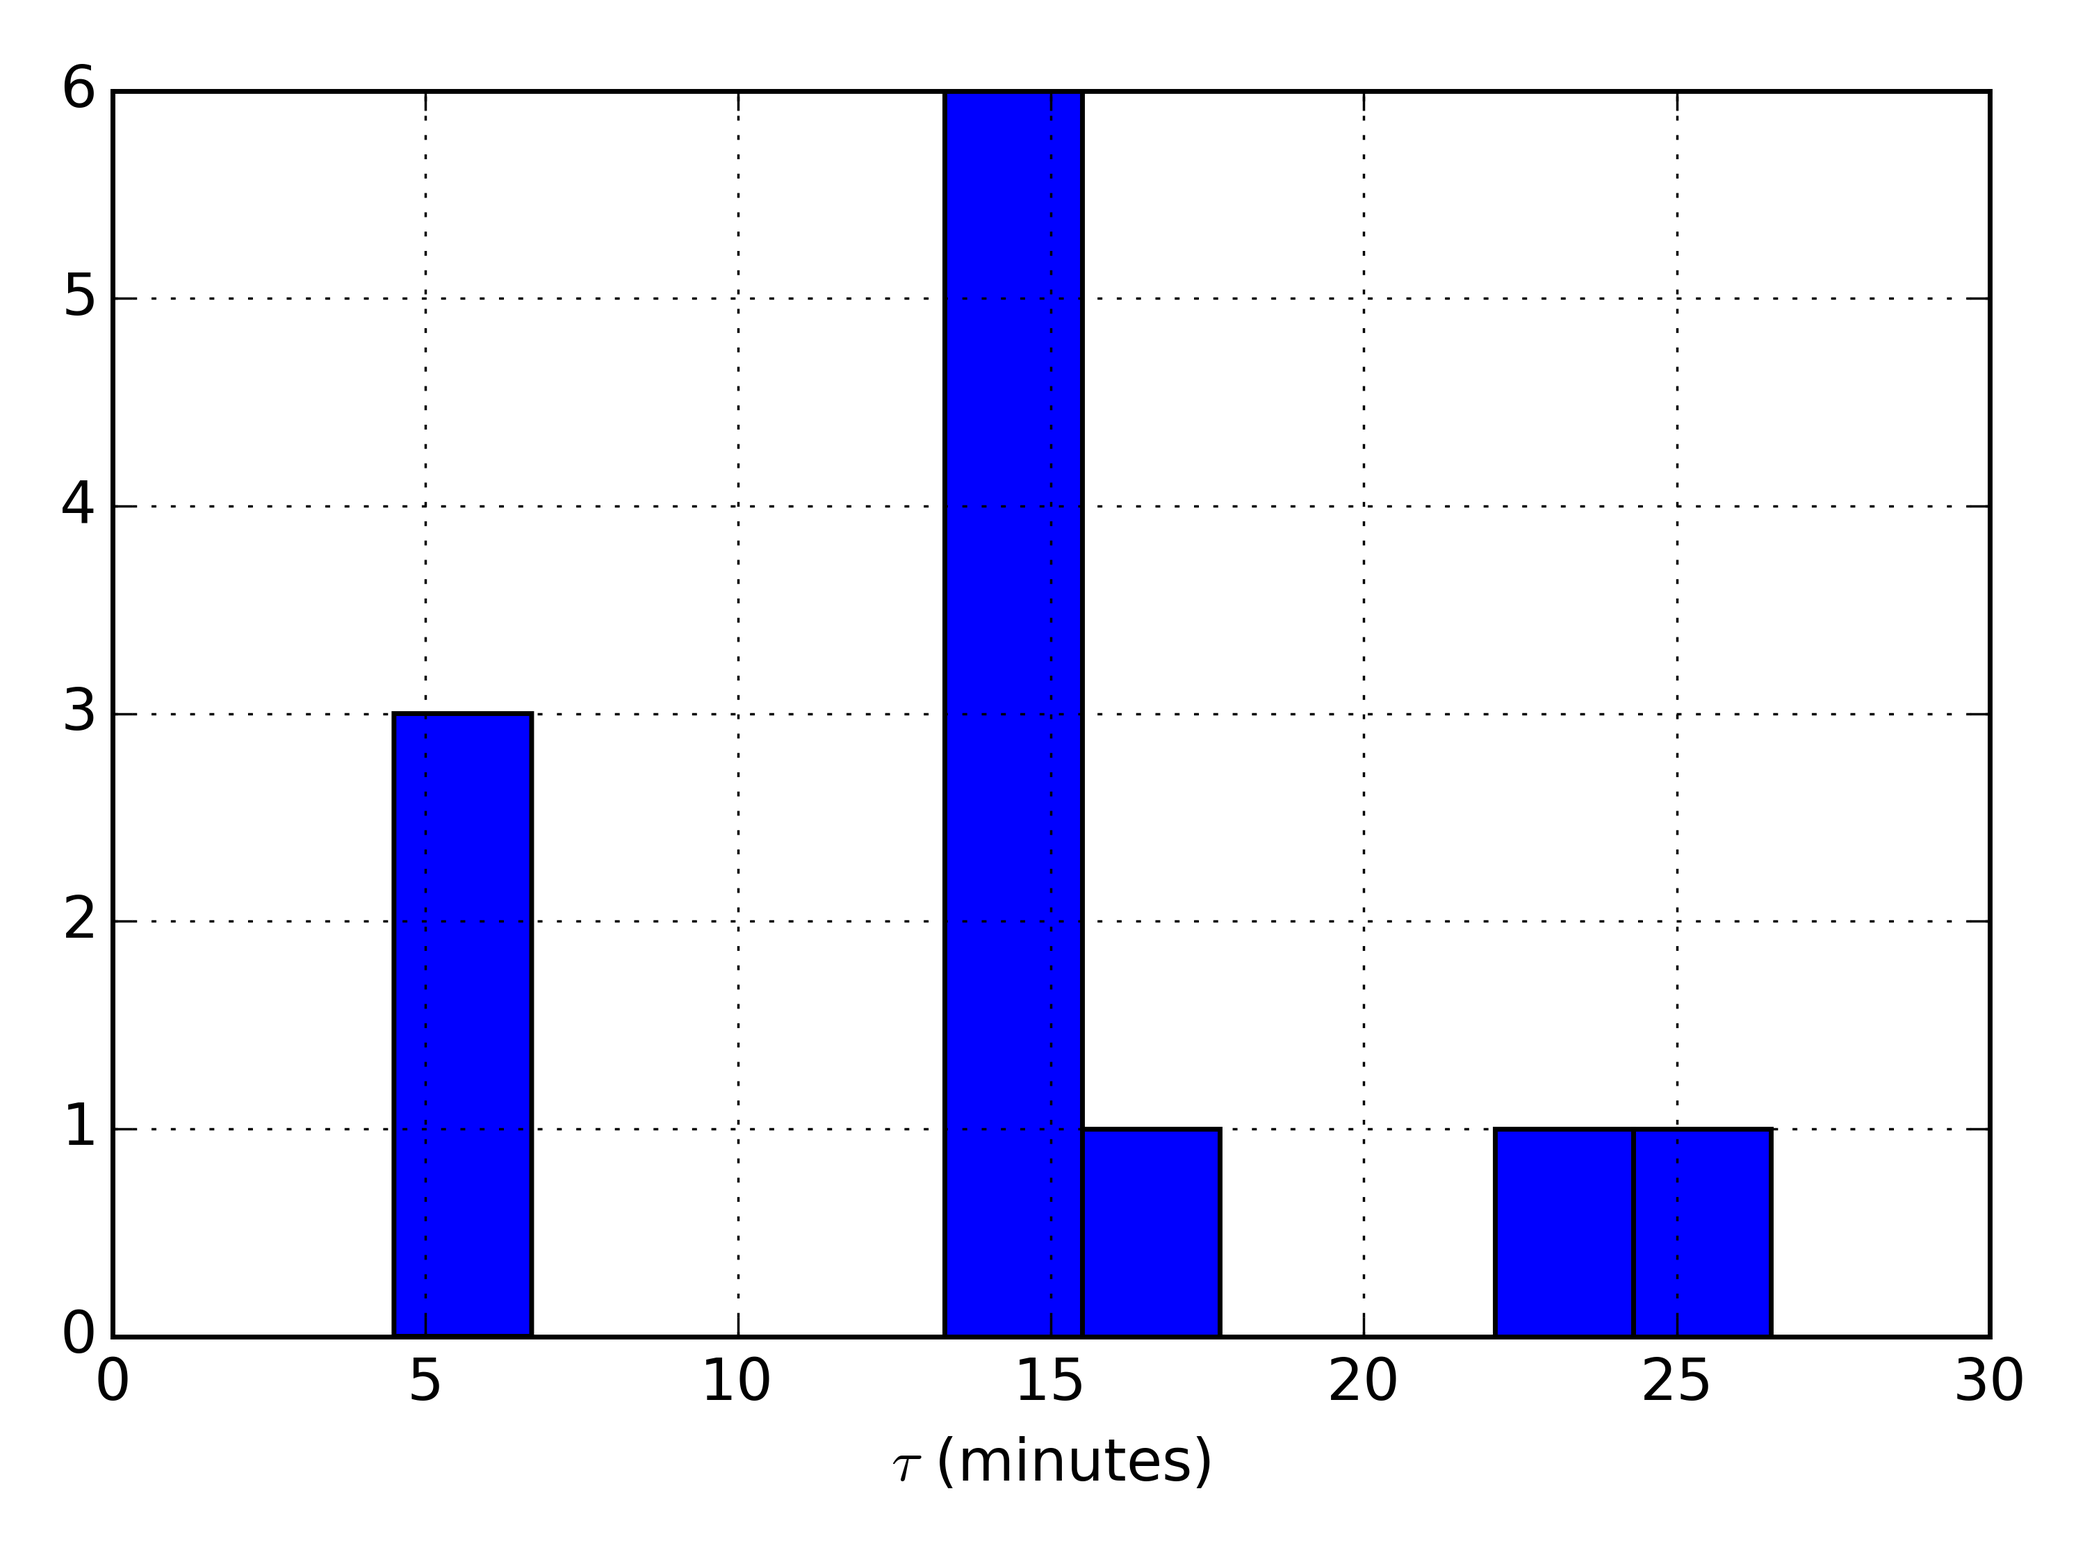
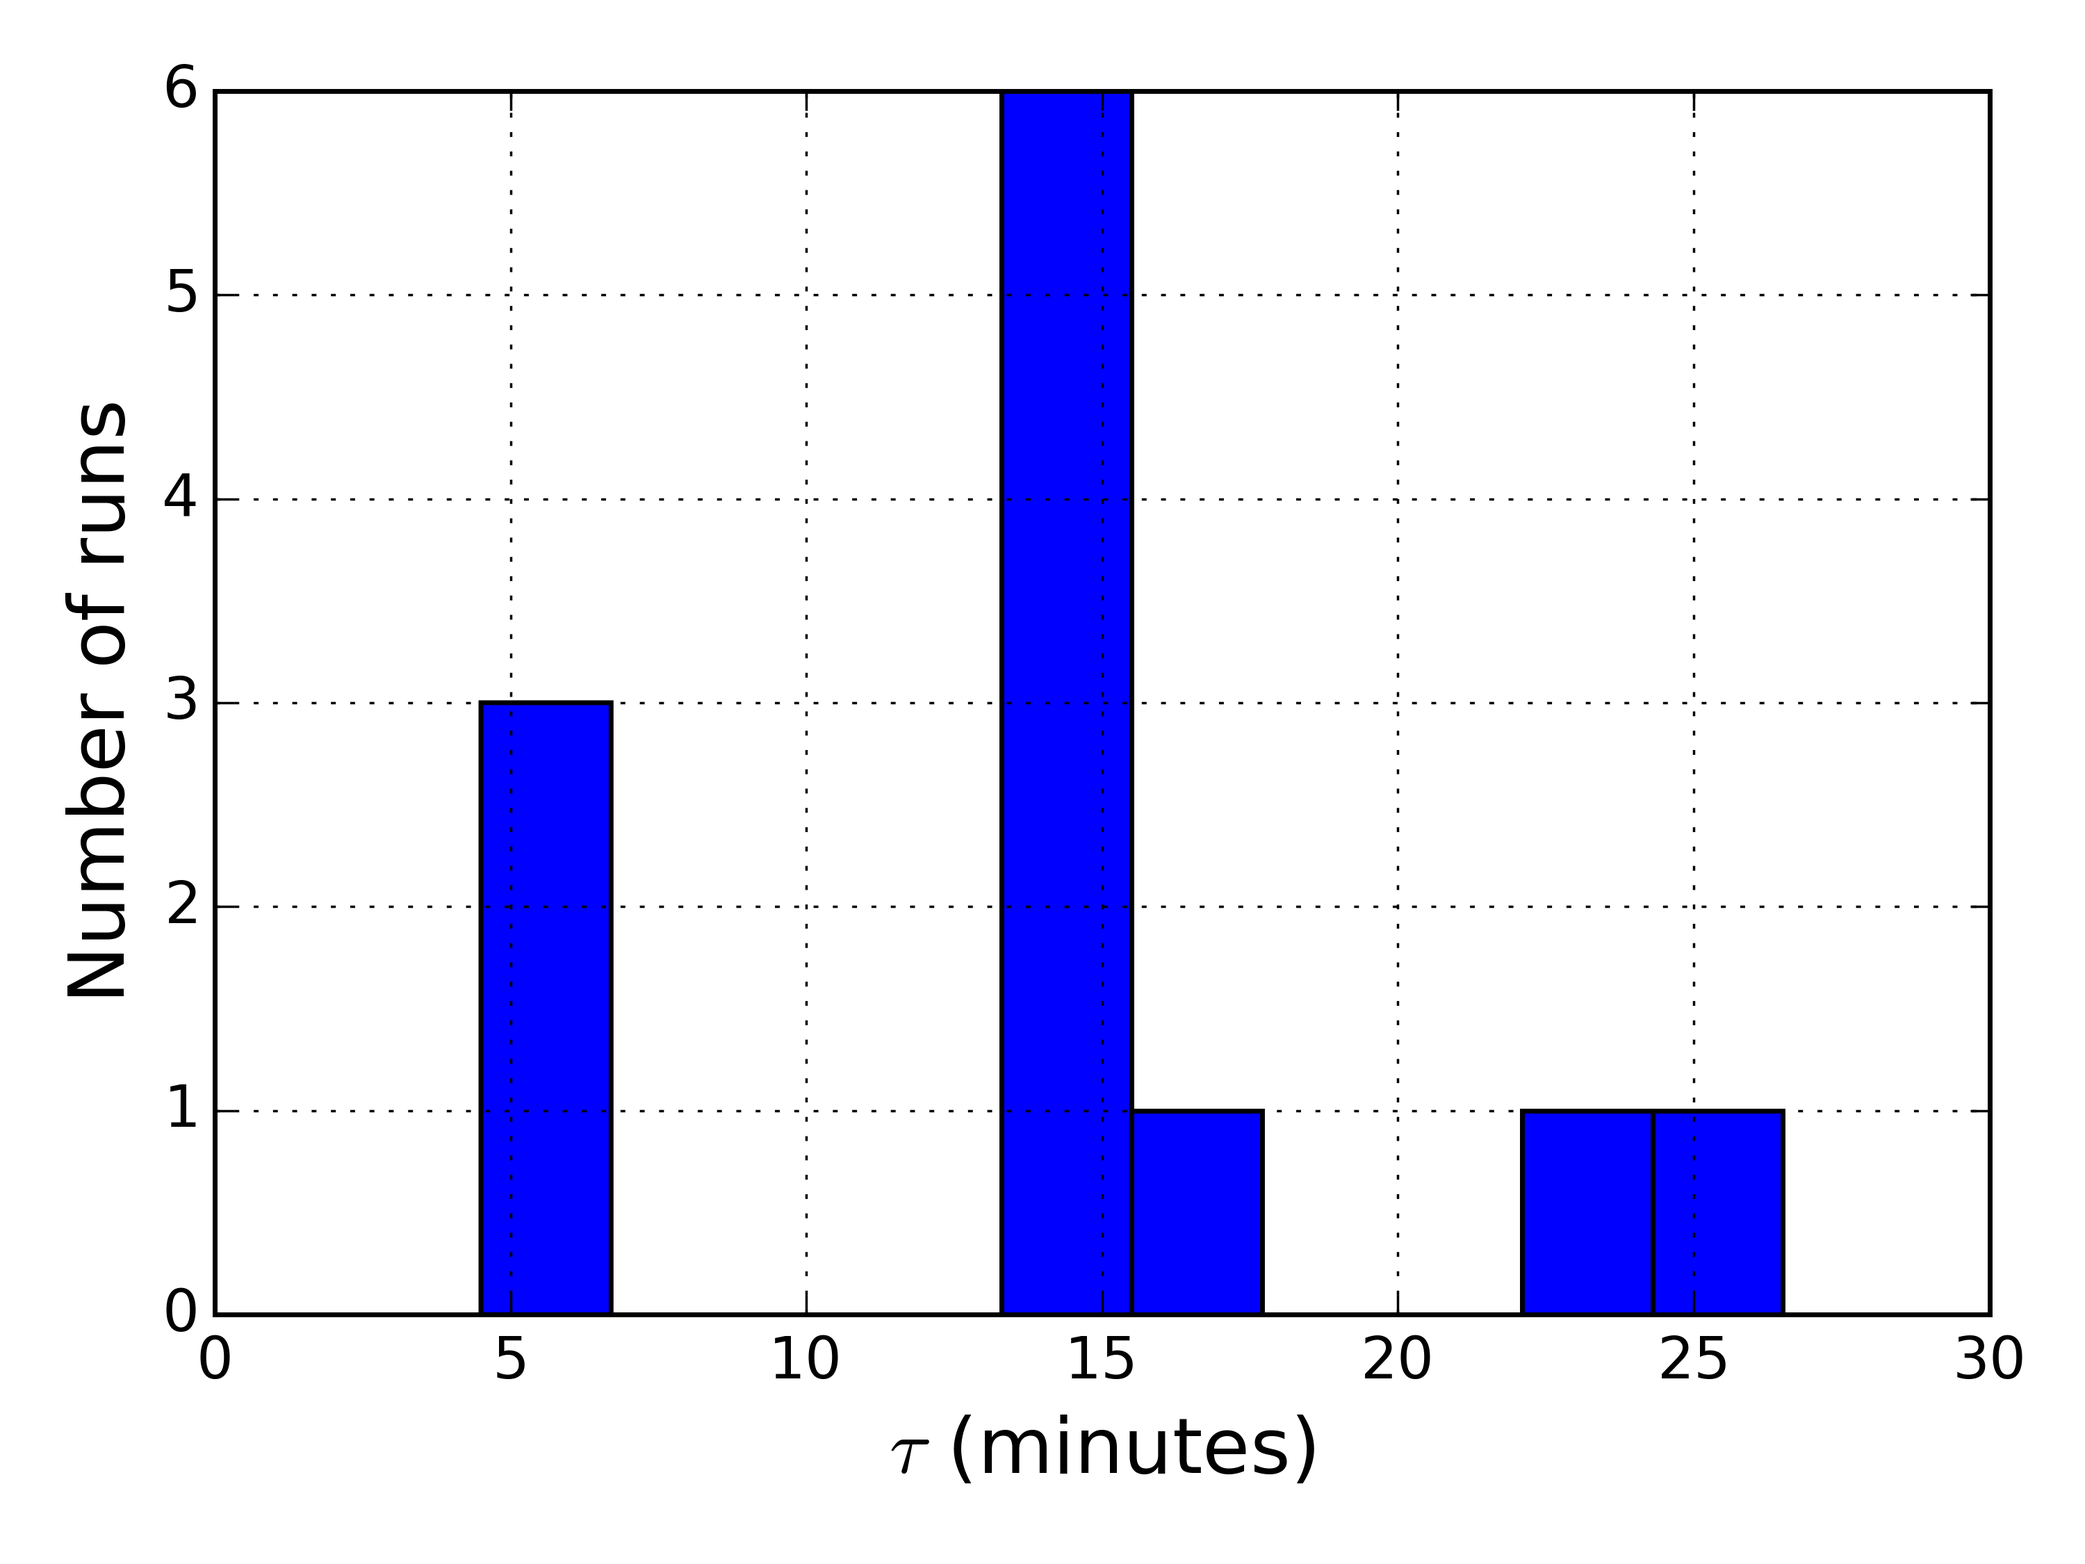
Bo fix XXX; + conclusion section

diff --git a/conclusions.tex b/conclusions.tex
@@ -1,52 +1,53 @@
 
 %  \section{Discussion and Conclusions} 
  
-For now, a collection place for stuff from other seeing papers (commented out),
-and some text to move later to Sections 3 and 4. 
+Using SDSS Stripe 82 data, we have seen a direct evidence that the
+wavelength dependence of the atmospheric seeing agrees better with the
+\vk~model than the Kolmogorov turbulence theory.
+Most of the long-term seeing statistics are taken at the visible
+wavelength. The knowledge on the wavelength-dependence of the seeing
+is useful for extrapolating the seeing statistics to other
+wavelength, for example, the near-infrared, where a lot of the
+adaptive optics programs operate.
 
 
-1) \cite{VMT1998} 
+We have also measured 
+the characteristic angular and temporal scales on which the seeing
+decorrelates.
+The numerical results may only apply to the SDSS site, but can be used
+as references when considering spatial and temporal variations of
+seeing at other observatories.
+Comparisons with simulations of the LSST and PSF measurements at CFHT
+show good general agreement, taken into account that the results are
+for different sites and different telescope optics.
+The results can be useful for observatories in scheduling
+observations to make best use of good seeing conditions.
 
-For seeing prediction, it is tempting to find statistical laws which describe its temporal behaviour.
-To our knowledge only three authors (Racine, 1996; Munoz-Tunon et al., 1997; Sarazin, 1997) 
-have worked on this problem. 
+We thank John Peterson for running the PhoSim simulations and
+providing us with both the PhoSim and CFHT curves in
+Fig.~\ref{fig:spatial}.
 
-- fig. 2: average autocorrelation function of seeing over 9 months:  A*exp(-t/tau) 
+%check lognormal?
+% - seeing distribution is  log–normal, due to the fact that seeing arises from the addition of uncorrelated random processes 
 
-- seeing distribution is  log–normal, due to the fact that seeing arises from the addition of uncorrelated random processes
+%check autocorrelation?
+% - fig. 2: average autocorrelation function of seeing over 9 months:  A*exp(-t/tau) 
+% see Eq. (3) in VMT 1998 for definition.
+% This could be calculated using correlate_temporal_bin.py (autocor
+% option), or make a copy of correlate_temporal_sf.py, and calculate
+% in a similar way. But, in fig 2 of VMT 1998, why autocor(dt=0) not
+% at 1?
 
-
-with $\tau$=17 min and $\gamma \sim 0.7$. for observations at Mauna Kea \cite{Racine1996}
-
-Seeing varies greatly with time and seems to decorrelate after 1 to 2 hr. 
-
-The seeing auto-correlation function
-\begin{equation}
-      C(\Delta t) = < \theta(t) \theta(t+\Delta t)>,
-\end{equation} 
-can be modeled as
-\begin{equation}
-      C(\Delta t) = A \, \exp(-\Delta t/\tau),
-\end{equation} 
-with $\tau \sim 1$ hour. 
+%The seeing auto-correlation function
+%\begin{equation}
+%      C(\Delta t) = < \theta(t) \theta(t+\Delta t)>,
+%\end{equation} 
+%can be modeled as
+%\begin{equation}
+%      C(\Delta t) = A \, \exp(-\Delta t/\tau),
+%\end{equation} 
+%with $\tau \sim 1$ hour. 
  
-Triple correlation:
-\begin{equation}
-      C(\Delta t_1, \Delta t_2) = < \theta(t) \theta(t+\Delta t_1)\theta(t+\Delta t_2) >
-\end{equation} 
-
-2) 
-
-The vertical distribution of the optical turbulence strength (energy profile), described by the altitude 
-dependence of the refractive-index structure constant $C^2_n$, is hard to measure. When $C^2_n$ 
-is available, the seeing $\theta$ is obtained by integrating $C^2_n$ over altitude $h$ as 
-\begin{equation}
-   \theta =  0.98 {\lambda \over r_0} = 5.25 \, \lambda^{-1/5} \, \left[ \int_0^\infty C_n^2(h) dh \right]^{3/5},
-\end{equation}
-where $r_0$ is the Fried's parameter \cite{Roddier1981}. 
-
-
-
 
 
 
@@ -61,12 +62,7 @@ where $r_0$ is the Fried's parameter \cite{Roddier1981}.
 
 % Coulman (1985, ARAA 23, 19) for theory of turbulence and seeing in astronomy
 
-\begin{equation} 
-FWHM = 0.98 {\lambda \over r_0} 
-\end{equation} 
-where $\lambda$ is the wavelength and $r_0$ is the Fried's
-parameter. It can be shown that the variation of $r_0$ with wavelength
-predicted by the Kolmogorov's turbulence implies $FWHM \propto \lambda^{-0.2}$. 	
+
 % cite: Vernin, J.; Munoz-Tunon, C. 1992, Astronomy and Astrophysics, vol. 257, no. 2, p. 811-816. 
 
 % Check for seeing forecastas and "flexible scheduling" !! 

diff --git a/analysis/source/correlate_temporal_sf.py b/analysis/source/correlate_temporal_sf.py
@@ -17,12 +17,16 @@ from astroML.fourier import PSD_continuous
 def fdt(dt, A, tau, gamma):
     # print('A = %e, f0 = %f'% (A, f0))
     return A*(1-(np.exp(-dt/tau))**gamma )
+    #return A*(1-(np.exp(-dt/tau))*gamma )
+    # return A*(1-np.exp((-dt/tau)**gamma) )  # (-dt/tau)**gamma -> nan
 
 def fdtChi2(dt, Atg, y, yerr):
     A = Atg[0]
     tau = Atg[1]
     gamma = Atg[2]
     yp = A*(1-(np.exp(-dt/tau))**gamma)
+    #yp = A*(1-(np.exp(-dt/tau))*gamma)
+    #yp = A*(1-np.exp((-dt/tau)**gamma))
     chi2 = np.sum(((yp - y)/yerr)**2)
     # print('A = %e, f0 = %f, chi2 = %f'% (A, f0, chi2))
     return chi2
@@ -155,37 +159,45 @@ def main():
                     mySF = txtdata[1, :]
                     myN = txtdata[2, :]
                     mySFstd = txtdata[3, :]
-                    
+
+                # mySFstd = mySFstd/100 #playing around, checking why pcov is large
+                # curve_fit gives the error
                 popt, pcov = optimize.curve_fit(fdt, mySep, mySF, p0=[0.1, 30, 0.8],
                                                         bounds = ([0, 5, 0], [0.3, 300, 5]),
                                                     sigma = mySFstd)
-                print('%6.1f\t %6.1f\n'%(popt[1], np.sqrt(pcov[1,1])))
-                popt = optimize.fmin(
-                    lambda Atg: fdtChi2(mySep, Atg,mySF, mySFstd), [0.1, 30, 0.8], disp=0)
-                print('fmin: %6.1f\n'%(popt[1]))
                 A = popt[0]
                 tau = popt[1]
                 gamma = popt[2]
                 Aerr = np.sqrt(pcov[0, 0])
                 tauerr = np.sqrt(pcov[1, 1])
                 gammaerr = np.sqrt(pcov[2, 2])
-
+                print('curve_fit: tau = %6.1f\t %6.1f'%(tau, tauerr))
+                print('curve_fit: gamma = %6.3f\t %6.3f'%(gamma, gammaerr))
+                # fmin does not give the error
+                popt = optimize.fmin(
+                    lambda Atg: fdtChi2(mySep, Atg,mySF, mySFstd), [0.1, 30, 0.8], disp=0)
+                A = popt[0]
+                tau = popt[1]
+                gamma = popt[2]
+                print('fmin: tau = %6.1f'%tau)
+                print('fmin: gamma = %6.3f'%gamma)
+                
                 if args.writefitp:
                     fid = open(fitpname, 'w')     
                     fid.write('%5.3f\t %5.3f\n' % (A, Aerr))
                     fid.write('%5.0f\t %5.0f\n' % (tau, tauerr))
                     fid.write('%5.2f\t %5.2f\n' % (gamma, gammaerr))
                     
-                #plt.figure(figsize=(6,4.5))
-                #plt.errorbar(mySep, mySF, mySFstd, fmt = 'ok')
-                #myX = np.linspace(0, mySep[0]+mySep[-1], 100)
-                #myY = fdt(myX, A, tau, gamma)
-                #chi2 = fdtChi2(mySep, popt, mySF, mySFstd)
-                #plt.plot(myX, myY, 'r-')
-                #
-                #plt.title('run%d, %s, %s, camcol=%s' %
-                #            (run, fwhmStr, sdss.band[band], camcol))
-                #plt.grid()
+                plt.figure(figsize=(6,4.5))
+                plt.errorbar(mySep, mySF, mySFstd, fmt = 'ok')
+                myX = np.linspace(0, mySep[0]+mySep[-1], 100)
+                myY = fdt(myX, A, tau, gamma)
+                chi2 = fdtChi2(mySep, popt, mySF, mySFstd)
+                plt.plot(myX, myY, 'r-')
+                
+                plt.title('run%d, %s, %s, camcol=%s' %
+                            (run, fwhmStr, sdss.band[band], camcol))
+                plt.grid()
                 # plt.show()
                 
             if (args.startfield == 0 and args.endfield == 99999):

diff --git a/FWHManalysis.tex b/FWHManalysis.tex
@@ -131,9 +131,9 @@ by the authors of~\cite{heymans2012}.
 The 3 curves in Fig.~\ref{fig:spatial} appear to be quantitatively
 consistent with each other, even though they are for telescopes at
 different sites and with different optics.
-
-XXX can we conclude anything from this section that is worth mentioning in the abstract? 
-
+The structure function is seen to start saturating at a separation of
+$\sim 0.5 - 1.0$ degree, where the PSF size typically differ on the
+scale of $\sim 0.05$ arcsec.
 
 \subsection{Temporal auto-correlation function}
 
@@ -152,10 +152,17 @@ Combining fit results for all camera columns and optical bands for run 4874
 gives $\tau = 15.1 \pm 1.4$ minutes.
 This is consistent with ~\cite{Racine1996}, where a timescale of 
 $\tau = 17 \pm 1$ minutes was found.
-Making the same fits for all the Stripe 82 runs with number of fields
+Making the same fits for the 12 longest runs in Stripe 82, where the
+number of fields are
 larger than 600, we obtained the $\tau$ distribution plotted in Fig.~\ref{fig:hist}.
-XXX How many runs? it looks like only 12 from fig. 6. Is 600 too conservative? 
-what if you relax to, say, 300? 
+%XXX How many runs? it looks like only 12 from fig. 6. Is 600 too conservative? 
+%what if you relax to, say, 300? 
+%Bo: when we change 600 to 300, we get FIGURES/hist_300.png 
+% the shorter runs tend to give smaller timescale. 
+% Looking at Fig.5, this is because the shorter runs have very few
+% point toward the lower frequency end, therefore are unable to
+% constrain the location of the "knee" during the fit. They tend to
+% push the "knee" to the right.
 
 Following~\cite{Racine1996}, we also define the structure-function-like quantity
 \begin{equation}
@@ -166,10 +173,11 @@ We then fit the mean value of $f(\Delta t)$ to
 \begin{equation}
     < f(\Delta t) > =  f(\Delta t) ^\infty \, \left[ 1 - \exp(-\Delta t/\tau)^\gamma \right],
 \end{equation} 
-The timescale $\tau$ is found to be mostly within the range of 15 to 25 minutes.
-XXX where does $\gamma$ come from? 
-
-XXX we need to add a sentence about $\tau \sim 15$ mins to the abstract. 
+with $\tau$ and $\gamma$ as free parameters.
+The timescale $\tau$ is found to be mostly within the range of 15 to
+25 minutes, and $\gamma$ between 1.0 and 1.5.
+%note: fits do not look as good as Fig 4 in Racine 1997.
+% see output/correlate_temporal/run4874_fwhm_sf_r.png
 
 \begin{figure}
 \centering
@@ -184,7 +192,9 @@ gives $\tau = 15.1 \pm 1.4$ minutes.
 \begin{figure}
 \centering
 \includegraphics[width=0.5\textwidth]{FIGURES/hist.png}
-\caption{histograms XXX Need to expand (and Y label and larger X label) 
+\caption{Distribution of the damped random walk characteristic
+  timescale for a total of 12 runs in Stripe 82 with the number of
+  fields larger than 600.
 \label{fig:hist}}
 \end{figure}
 

diff --git a/PSFprofile.tex b/PSFprofile.tex
@@ -1,7 +1,7 @@
 
 %  \section{The PSF profile analysis}
 
-Since the complex 6-parameter PSF fit given by eq.~\ref{eq:SDSSPSF} was adopted by 
+Since the complex 6-parameter PSF fit given by Eq.~(\ref{eq:SDSSPSF}) was adopted by 
 the SDSS processing pipeline, significant progress has been made in validating the 
 \vk~model of the atmosphere and measuring the associated outer
 scale (see, for example, \citealt{Tokovinin2002}, \citealt{Boccas2004}, and \citealt{MartinezMessenger}).
@@ -36,7 +36,7 @@ so light goes all the way through the chip and is reflected off the solder, and 
 back up through the Si. This effect is not visible in the $z$-band because in this case
 thick front-side chips are used (in all other bands, thin back-side chips are used). 
 
-To improve the fit quality are large radii, in the second fitting step we introduce an
+To improve the fit quality at large radii, in the second fitting step we introduce an
 empirical instrumental PSF, so that the observed PSF can be expressed as
 a convolution of the atmosphere, represented by the \vk, and
 the instrumental PSF,
@@ -48,7 +48,13 @@ where vonK is the \vk~shape, whose only parameter is its FWHM, and
         \textrm{PSF}_{\textrm{inst}} = \exp(-\frac{r^2}{2\sigma^2}) + 10^{\eta(ar^2+br+c)}.
 \label{eq:psfinst}
 \end{equation} 
-Because the shape of the instrument PSF tail should not vary with
+The standard deviation of the central Gaussian, $\sigma$, cannot be
+too wide because the \vk~term already well describes the core of the PSF.
+On the other hand, if $\sigma$ is close to zero, once the
+total intensity of the instrumental PSF is normalized to 1, too much
+widening power would be given to the instrumental PSF tail.
+We found $\sigma = 0.1$ arcsec a reasonable choice for all the fits.
+Because the shape of the instrumental PSF tail should not vary with
 time, the parameters $a$, $b$, and $c$ in Eq.~(\ref{eq:psfinst}) are
 fixed for each band-camera-column combination.
 Their values come from a one-time fit using the same PSF functions,
@@ -59,7 +65,6 @@ These fits are very slow but need to be done only once.
 Although this second fitting step involves a 2-dimensional convolution,
 there is only one free parameter in the fit: $\eta$, the normalization of the
 instrument PSF tail. Each two-step PSF fit can be done in a few seconds.
-XXX Bo, what about delta from eq.3, where does it come from? 
 
 
 \begin{figure}

diff --git a/sdsspsf.tex b/sdsspsf.tex
@@ -12,13 +12,15 @@
 
 \title{A Study of the Point Spread Function in SDSS Images}    %line break \\ is allowed in title
 
-\author{B. Xin$^1$, \v{Z}. Ivezi\'{c}$^2$, R.H. Lupton$^3$, P. Yoachim$^2$, R.L. Jones$^2$, C. Claver$^1$, G. Angeli$^1$}
+\author{B. Xin$^1$, \v{Z}. Ivezi\'{c}$^2$, R.H. Lupton$^3$, P. Yoachim$^2$, R.L. Jones$^2$, C. Claver$^1$, G. Angeli$^{1*}$}
 \and
 \author{Other Contributors}
 
 \affil{$^1$Large Synoptic Survey Telescope, Tucson, AZ 85719}
 \affil{$^2$Department of Astronomy, University of Washington, Seattle, WA 98195}
 \affil{$^3$Department of Astrophysical Sciences, Princeton University, Princeton, NJ 08544}
+\altaffiltext{*}{Current address: Giant Magellan Telescope
+  Organization, Pasadena, CA 91107}
 
 \begin{abstract}
 We use SDSS imaging data in $ugriz$ passbands to study the shape of
@@ -37,6 +39,9 @@ theory with the outer scale parameter in the range 10--30 m, than by the
 Kolmogorov's turbulence theory. We also measure the temporal and angular
 structure functions for FWHM and compare them to simulations and
 existing measurements.
+The angular structure function saturates around 0.5$-$1.0 degree. 
+The temporal behavior is found to be consistent with the damped random
+walk model with a characteristic timescale of $\sim$ 15 minutes.
 \end{abstract}
 
 \keywords{imaging point spread function --- SDSS}

diff --git a/analysis/source/hist.py b/analysis/source/hist.py
@@ -10,10 +10,11 @@ tauerr = a[:, 3]
 plt.figure(figsize=(6,4.5))
 
 idx = nfield>600
+#idx = nfield>500
 plt.hist(tau[idx])
 plt.grid()
-plt.xlabel(r'$\tau$ (minutes)')
-
+plt.xlabel(r'$\tau$ (minutes)', {'fontsize': 16})
+plt.ylabel('Number of runs', {'fontsize': 16})
 
 
 #usebands = 'ugriz'
